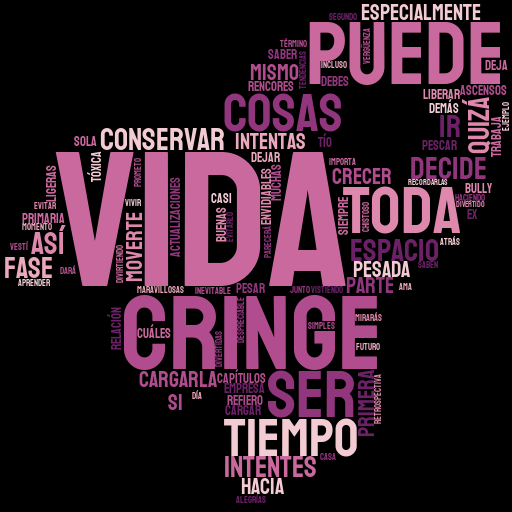
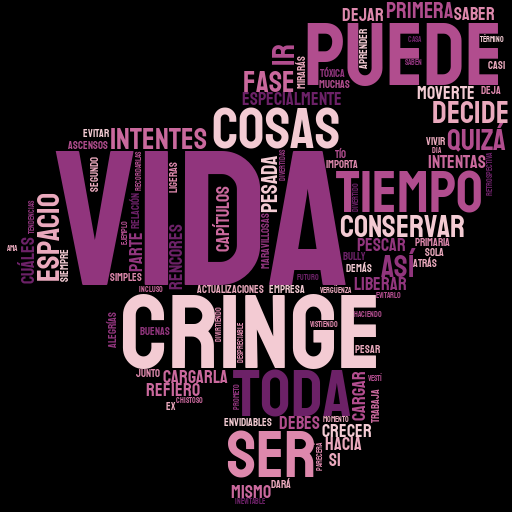
Actualización

diff --git a/WordCloud/WordCloud.py b/WordCloud/WordCloud.py
@@ -16,7 +16,7 @@ stylecloud.gen_stylecloud(file_path=r'WordCloud/TaylorSwift.txt',
                           custom_stopwords=palabras_irrelevantes)
 
 #Creando nube de palabras con imagen propia
-my_mask = np.array(Image.open(r'WordCloud/TayTay.png'))
+my_mask = np.array(Image.open(r'WordCloud/Taylor_Swift.png'))
 wc = WordCloud(background_color='white',
                mask=my_mask,
                collocations=False,
